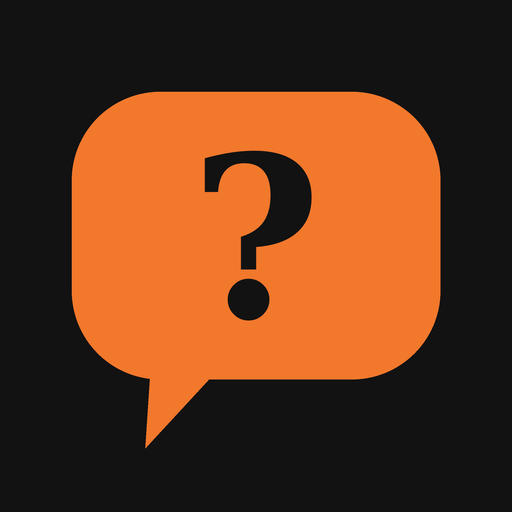
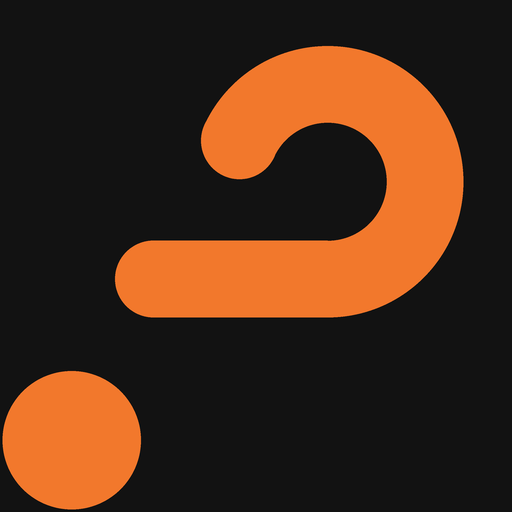
Новая иконка по рисунку Феди и подсказка об установке приложения при входе
Claude-Session: https://claude.ai/code/session_01R78cxW2JUJyUgw2rwqr6su

diff --git a/app.js b/app.js
@@ -903,6 +903,7 @@
       await loadToday();
       if (seq !== S.loadSeq) return;
       S.stage = 'app'; S.view = 'today'; S.kind = 'question'; render();
+      maybeShowInstallHint();
       startPolling();
     } catch (e) {
       if (seq !== S.loadSeq) return;
@@ -2071,10 +2072,82 @@
     });
     window.addEventListener('appinstalled', function () {
       installEvt = null;
+      markHintSeen();
+      var h = document.querySelector('.install-hint'); if (h) h.remove();
       toast('Приложение установлено 🎉');
       if (S.stage === 'app' && S.view === 'profile') render();
     });
   }
+  // Текст-инструкция, если браузер сам не умеет показывать окно установки.
+  function installHowTo() {
+    return isIOS()
+      ? 'Открой сайт в Safari, нажми «Поделиться» (квадрат со стрелкой) и выбери «На экран «Домой»».'
+      : 'В Chrome открой меню ⋮ и выбери «Добавить на главный экран» или «Установить приложение».';
+  }
+  function runInstall(done) {
+    var e = installEvt; if (!e) return false;
+    installEvt = null;
+    e.prompt();
+    e.userChoice.then(done, done);
+    return true;
+  }
+
+  /* Всплывающая подсказка при входе: «теперь можно установить». Показывается один раз;
+     если отложить — остаётся карточка в профиле. */
+  var HINT_KEY = 'install-hint-seen';
+  function hintSeen() { try { return localStorage.getItem(HINT_KEY) === '1'; } catch (e) { return true; } }
+  function markHintSeen() { try { localStorage.setItem(HINT_KEY, '1'); } catch (e) { /* ничего */ } }
+  function maybeShowInstallHint() {
+    if (maybeShowInstallHint.done || isStandalone() || hintSeen()) return;
+    var phone = (window.matchMedia && window.matchMedia('(pointer: coarse)').matches) || window.innerWidth <= 640;
+    if (!phone) return;
+    maybeShowInstallHint.done = true;
+    setTimeout(function tryShow() {
+      if (S.stage !== 'app' || isStandalone()) return;
+      if (document.querySelector('.celebrate') || S.gameState === 'play') { setTimeout(tryShow, 4000); return; }
+      showInstallHint();
+    }, 1500);
+  }
+  function showInstallHint() {
+    var box = el('div', { class: 'install-hint', role: 'dialog', 'aria-label': 'Установить приложение' });
+    function close(later) {
+      markHintSeen();
+      box.classList.add('out');
+      setTimeout(function () { box.remove(); }, reduceMotion ? 0 : 220);
+      if (later) toast('Установить можно позже в Профиле');
+    }
+    function main() {
+      box.replaceChildren(
+        el('div', { class: 'ih-row' }, [
+          el('img', { class: 'ih-icon', src: 'icon-192.png', alt: '', width: 48, height: 48 }),
+          el('div', { class: 'ih-text' }, [
+            el('p', { class: 'ih-title', text: 'Теперь можно установить как приложение' }),
+            el('p', { class: 'ih-sub', text: 'Иконка на экране телефона, открывается без браузера. Если не сейчас — это можно сделать позже в Профиле.' })
+          ])
+        ]),
+        el('div', { class: 'ih-actions' }, [
+          el('button', { type: 'button', class: 'btn', text: 'Позже', onclick: function () { close(true); } }),
+          el('button', {
+            type: 'button', class: 'btn primary', text: 'Установить',
+            onclick: function () {
+              if (runInstall(function () { if (S.view === 'profile') render(); })) { close(false); return; }
+              howTo();
+            }
+          })
+        ])
+      );
+    }
+    function howTo() {
+      box.replaceChildren(
+        el('p', { class: 'ih-title', text: 'Как установить' }),
+        el('p', { class: 'ih-sub', text: installHowTo() }),
+        el('div', { class: 'ih-actions' }, [el('button', { type: 'button', class: 'btn primary', text: 'Понятно', onclick: function () { close(false); } })])
+      );
+    }
+    main();
+    document.body.appendChild(box);
+  }
+
   function installCard() {
     if (isStandalone()) return null; // уже открыто как приложение
     var body;
@@ -2083,18 +2156,11 @@
         el('p', { class: 'muted', text: 'Иконка появится на экране телефона, и сайт будет открываться как отдельное приложение.' }),
         el('div', { class: 'row actions' }, [el('button', {
           type: 'button', class: 'btn primary', text: 'Установить',
-          onclick: function () {
-            var e = installEvt; if (!e) return;
-            installEvt = null;
-            e.prompt();
-            e.userChoice.then(function () { render(); }).catch(function () { render(); });
-          }
+          onclick: function () { runInstall(function () { render(); }); }
         })])
       ];
-    } else if (isIOS()) {
-      body = [el('p', { class: 'muted', text: 'Открой сайт в Safari, нажми «Поделиться» (квадрат со стрелкой) и выбери «На экран «Домой»».' })];
     } else {
-      body = [el('p', { class: 'muted', text: 'В Chrome открой меню ⋮ и выбери «Добавить на главный экран» или «Установить приложение».' })];
+      body = [el('p', { class: 'muted', text: installHowTo() })];
     }
     return el('div', { class: 'card stack tight install-card' }, [el('p', { class: 'install-title', text: '📱 Приложение на телефоне' })].concat(body));
   }

diff --git a/style.css b/style.css
@@ -657,3 +657,21 @@ html.sector-on .bottom-nav, html.sector-on nav.tabs { touch-action: manipulation
 /* карточка «Приложение на телефоне» в профиле */
 .install-title { margin: 0; font-weight: 600; }
 .install-card .muted { margin: 0; }
+
+/* всплывающая подсказка «можно установить как приложение» */
+.install-hint {
+  position: fixed; left: 12px; right: 12px; bottom: calc(16px + env(safe-area-inset-bottom, 0px)); z-index: 55;
+  max-width: 460px; margin: 0 auto; padding: 16px; display: flex; flex-direction: column; gap: 12px;
+  background: var(--surface); border: 1px solid var(--line); border-radius: 18px; box-shadow: 0 12px 40px rgba(0, 0, 0, 0.55);
+  animation: ihIn 0.28s ease-out;
+}
+@media (max-width: 640px) { .install-hint { bottom: calc(80px + env(safe-area-inset-bottom, 0px)); } }
+.install-hint.out { opacity: 0; transform: translateY(10px); transition: opacity 0.2s, transform 0.2s; }
+@keyframes ihIn { from { opacity: 0; transform: translateY(14px); } to { opacity: 1; transform: none; } }
+.ih-row { display: flex; gap: 12px; align-items: flex-start; }
+.ih-icon { width: 48px; height: 48px; border-radius: 12px; flex: none; }
+.ih-text { display: flex; flex-direction: column; gap: 4px; min-width: 0; }
+.ih-title { margin: 0; font-weight: 600; color: var(--ink); }
+.ih-sub { margin: 0; font-size: 14px; color: var(--muted); line-height: 1.4; }
+.ih-actions { display: flex; justify-content: flex-end; gap: 8px; }
+@media (prefers-reduced-motion: reduce) { .install-hint { animation: none; } .install-hint.out { transition: none; } }

diff --git a/index.html b/index.html
@@ -28,7 +28,7 @@
 <link rel="preconnect" href="https://fonts.googleapis.com">
 <link rel="preconnect" href="https://fonts.gstatic.com" crossorigin>
 <link rel="stylesheet" href="https://fonts.googleapis.com/css2?family=Golos+Text:wght@400;500;600&family=IBM+Plex+Mono:wght@400;500&family=Literata:wght@400;500;600&display=swap">
-<link rel="stylesheet" href="style.css?v=20261031d">
+<link rel="stylesheet" href="style.css?v=20261031e">
 </head>
 <body>
 <div id="app"></div>
@@ -36,9 +36,9 @@
 
 <!-- Библиотека для работы с Supabase (вход и база данных) -->
 <script src="https://cdn.jsdelivr.net/npm/@supabase/supabase-js@2.45.4/dist/umd/supabase.min.js"></script>
-<script src="config.js?v=20261031d"></script>
-<script src="horoscope-data.js?v=20261031d"></script>
-<script src="game.js?v=20261031d"></script>
-<script src="app.js?v=20261031d"></script>
+<script src="config.js?v=20261031e"></script>
+<script src="horoscope-data.js?v=20261031e"></script>
+<script src="game.js?v=20261031e"></script>
+<script src="app.js?v=20261031e"></script>
 </body>
 </html>

diff --git a/game.js b/game.js
@@ -341,7 +341,7 @@
       if (screen !== 'play') return;
       if (ev.button !== undefined && ev.button > 0) return;
       var t = ev.target;
-      if (t && t.closest && t.closest('.bottom-nav, nav.tabs, .me, a')) return; // по меню можно уйти из игры
+      if (t && t.closest && t.closest('.bottom-nav, nav.tabs, .me, a, .install-hint, .toast')) return; // по меню можно уйти из игры
       ev.preventDefault();
       press(ev.timeStamp);
     }
